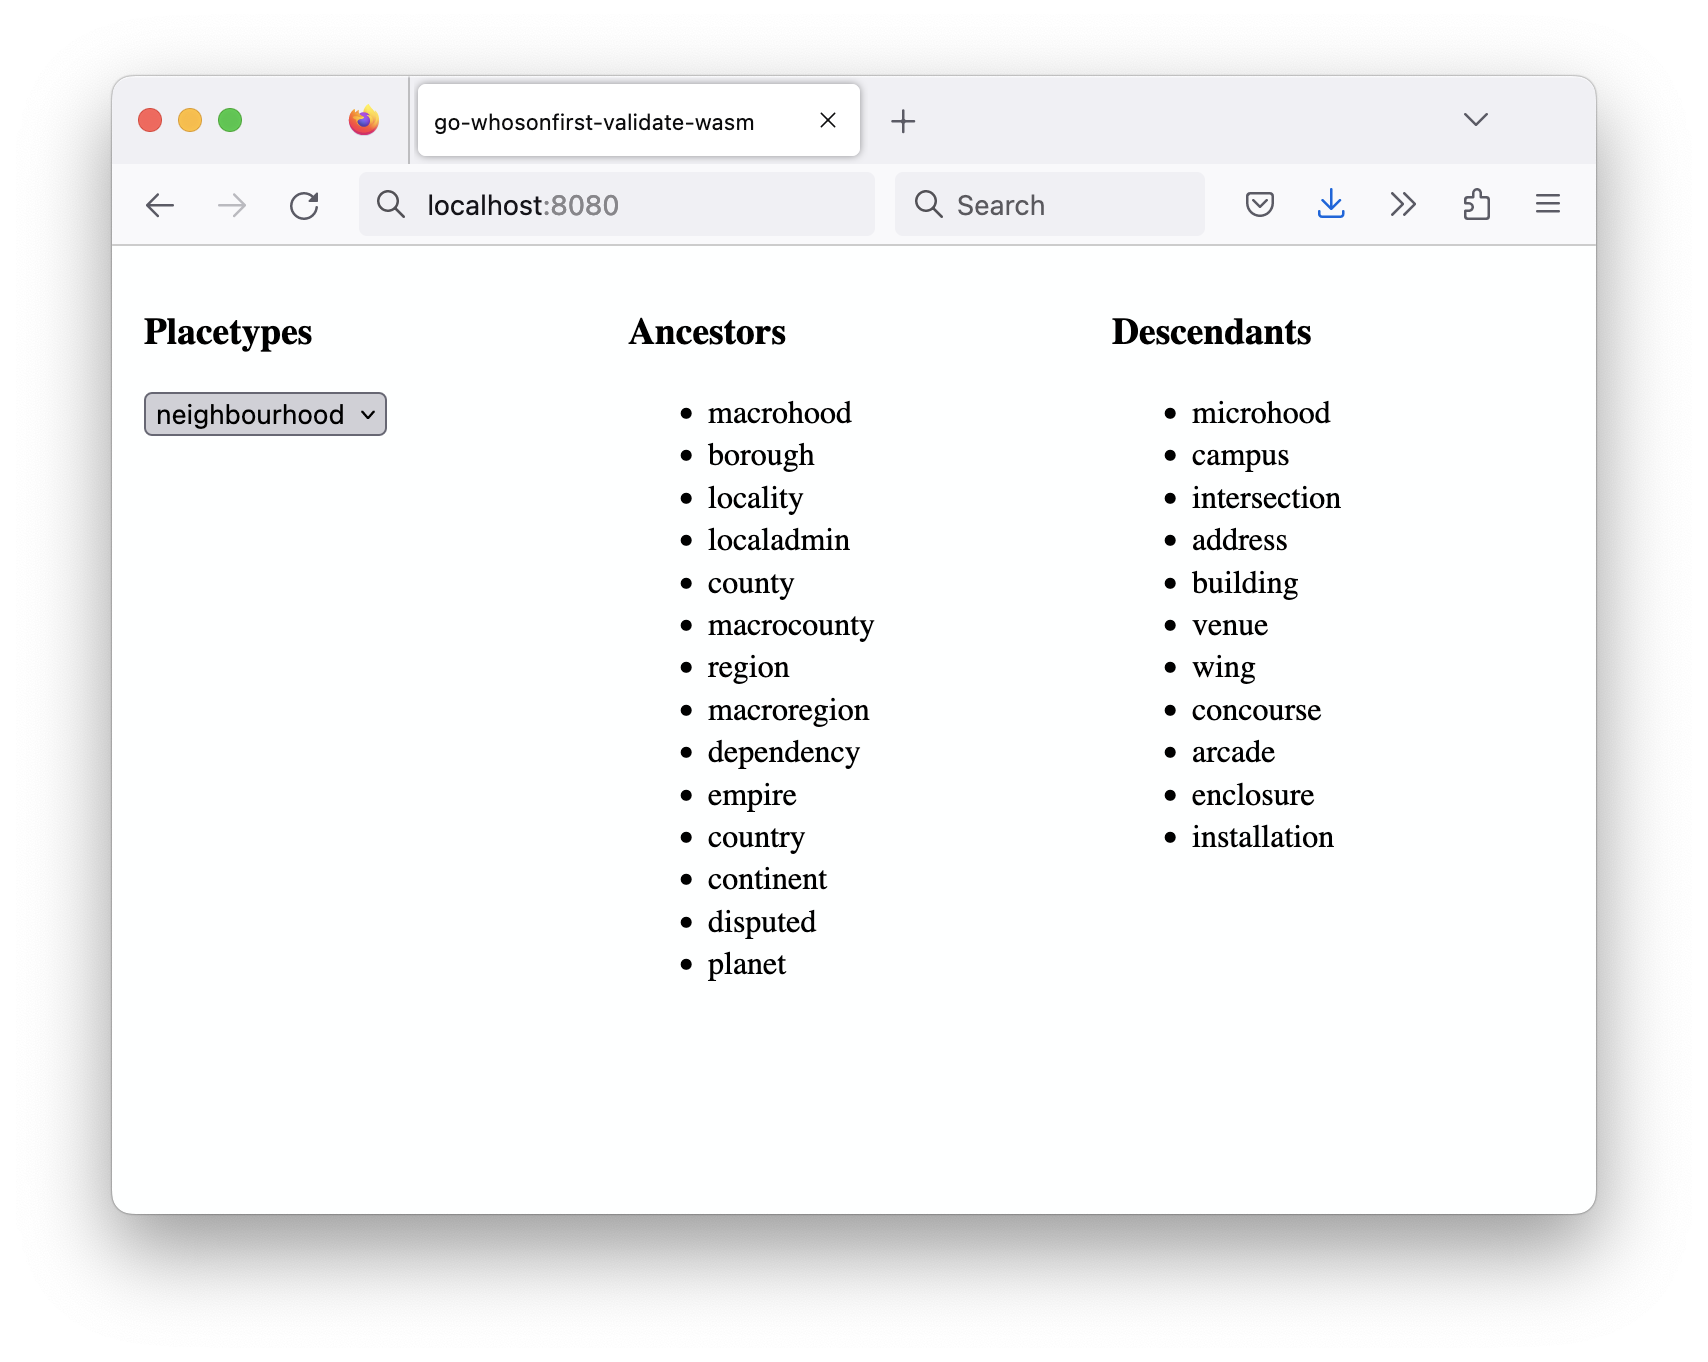
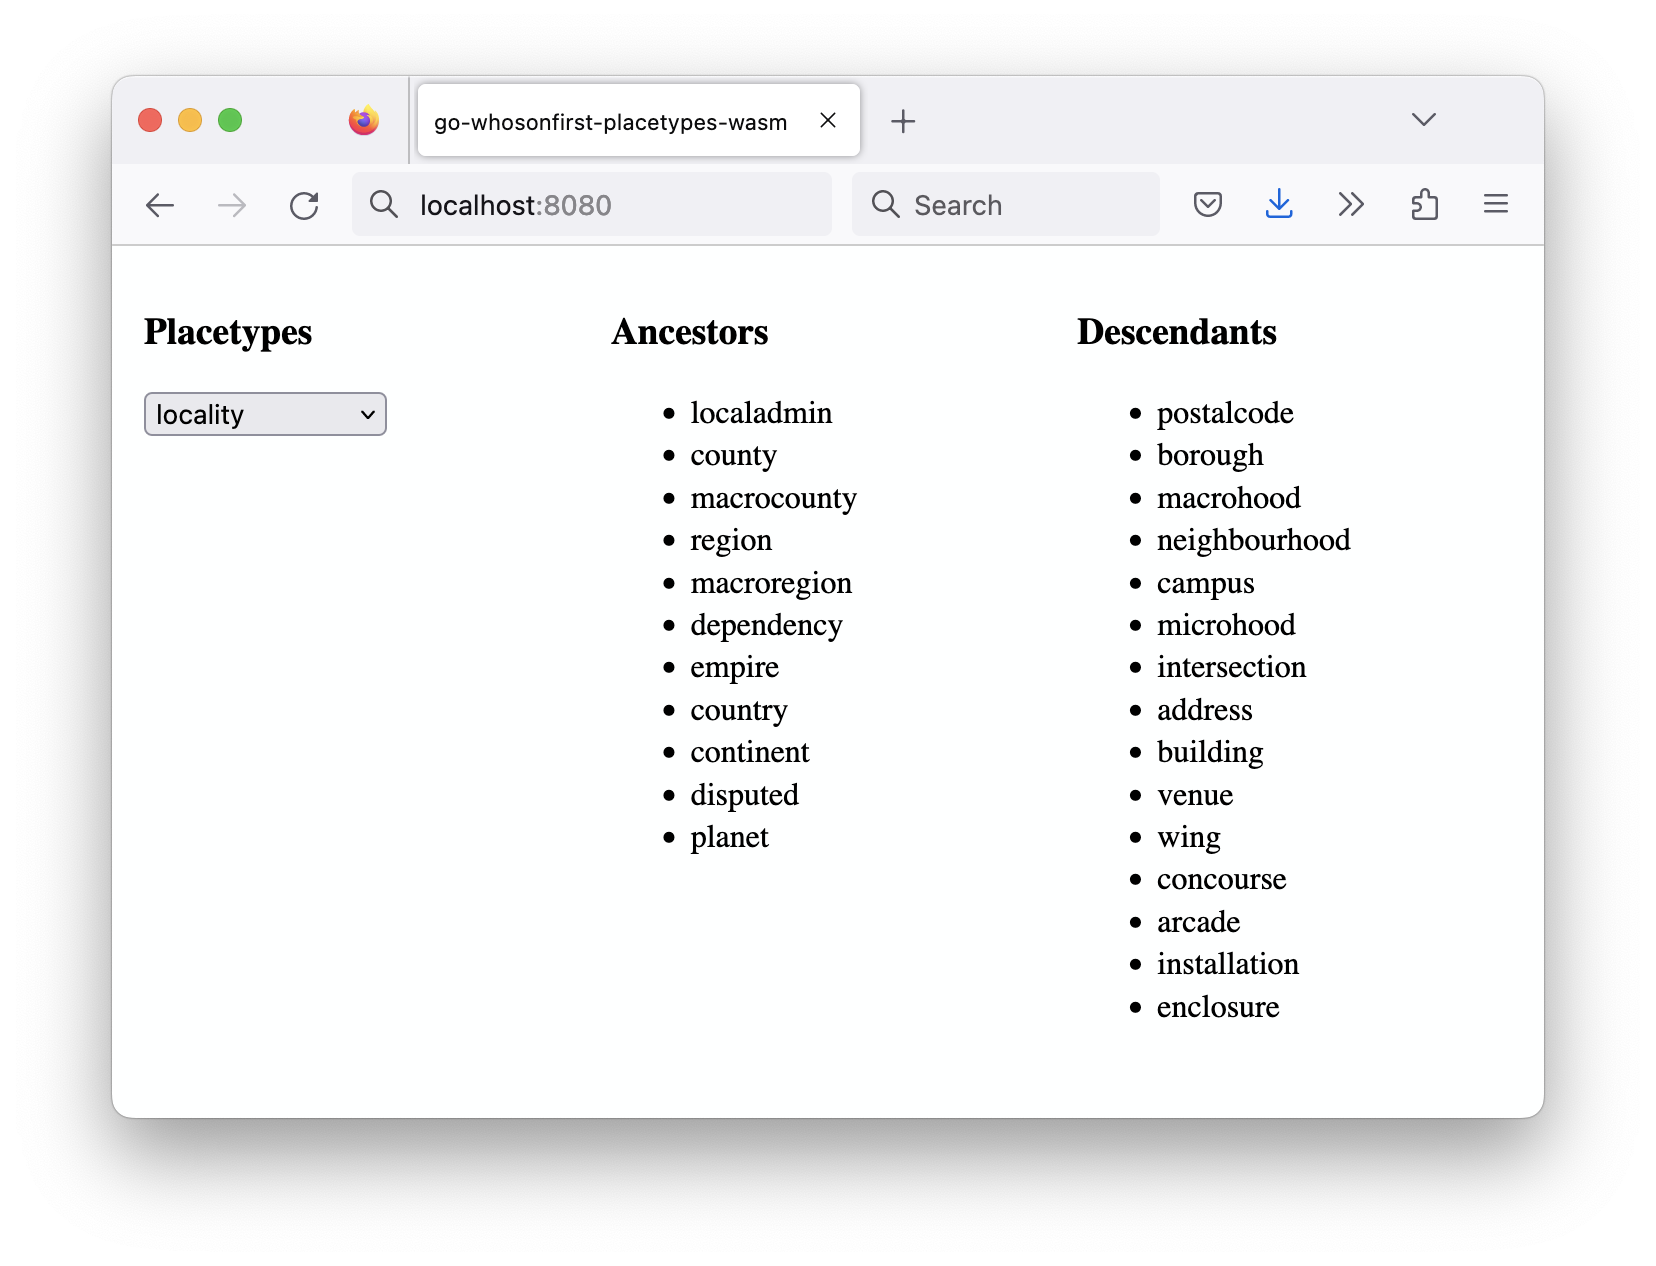
improved docs

diff --git a/cmd/example/index.html b/cmd/example/index.html
@@ -4,7 +4,7 @@
     <meta charset="utf-8">
     <meta http-equiv="Content-Type" content="text/html; charset=utf-8">
     <meta name="viewport" content="width=device-width, initial-scale=1.0, maximum-scale=1.0, user-scalable=no">
-    <title>go-whosonfirst-validate-wasm</title>
+    <title>go-whosonfirst-placetypes-wasm</title>
     <link rel="stylesheet" type="text/css" href="example.css" />
     <script type="text/javascript" src="example.init.js"></script>
   </head>

diff --git a/README.md b/README.md
@@ -100,6 +100,8 @@ Then open `http://localhost:8080` in a  web browser. You should see something li
 
 ![](docs/images/wof-placetypes-wasm.png)
 
+![](docs/images/wof-placetypes-wasm.gif)
+
 ## See also
 
 * https://github.com/whosonfirst/go-whosonfirst-placetypes
